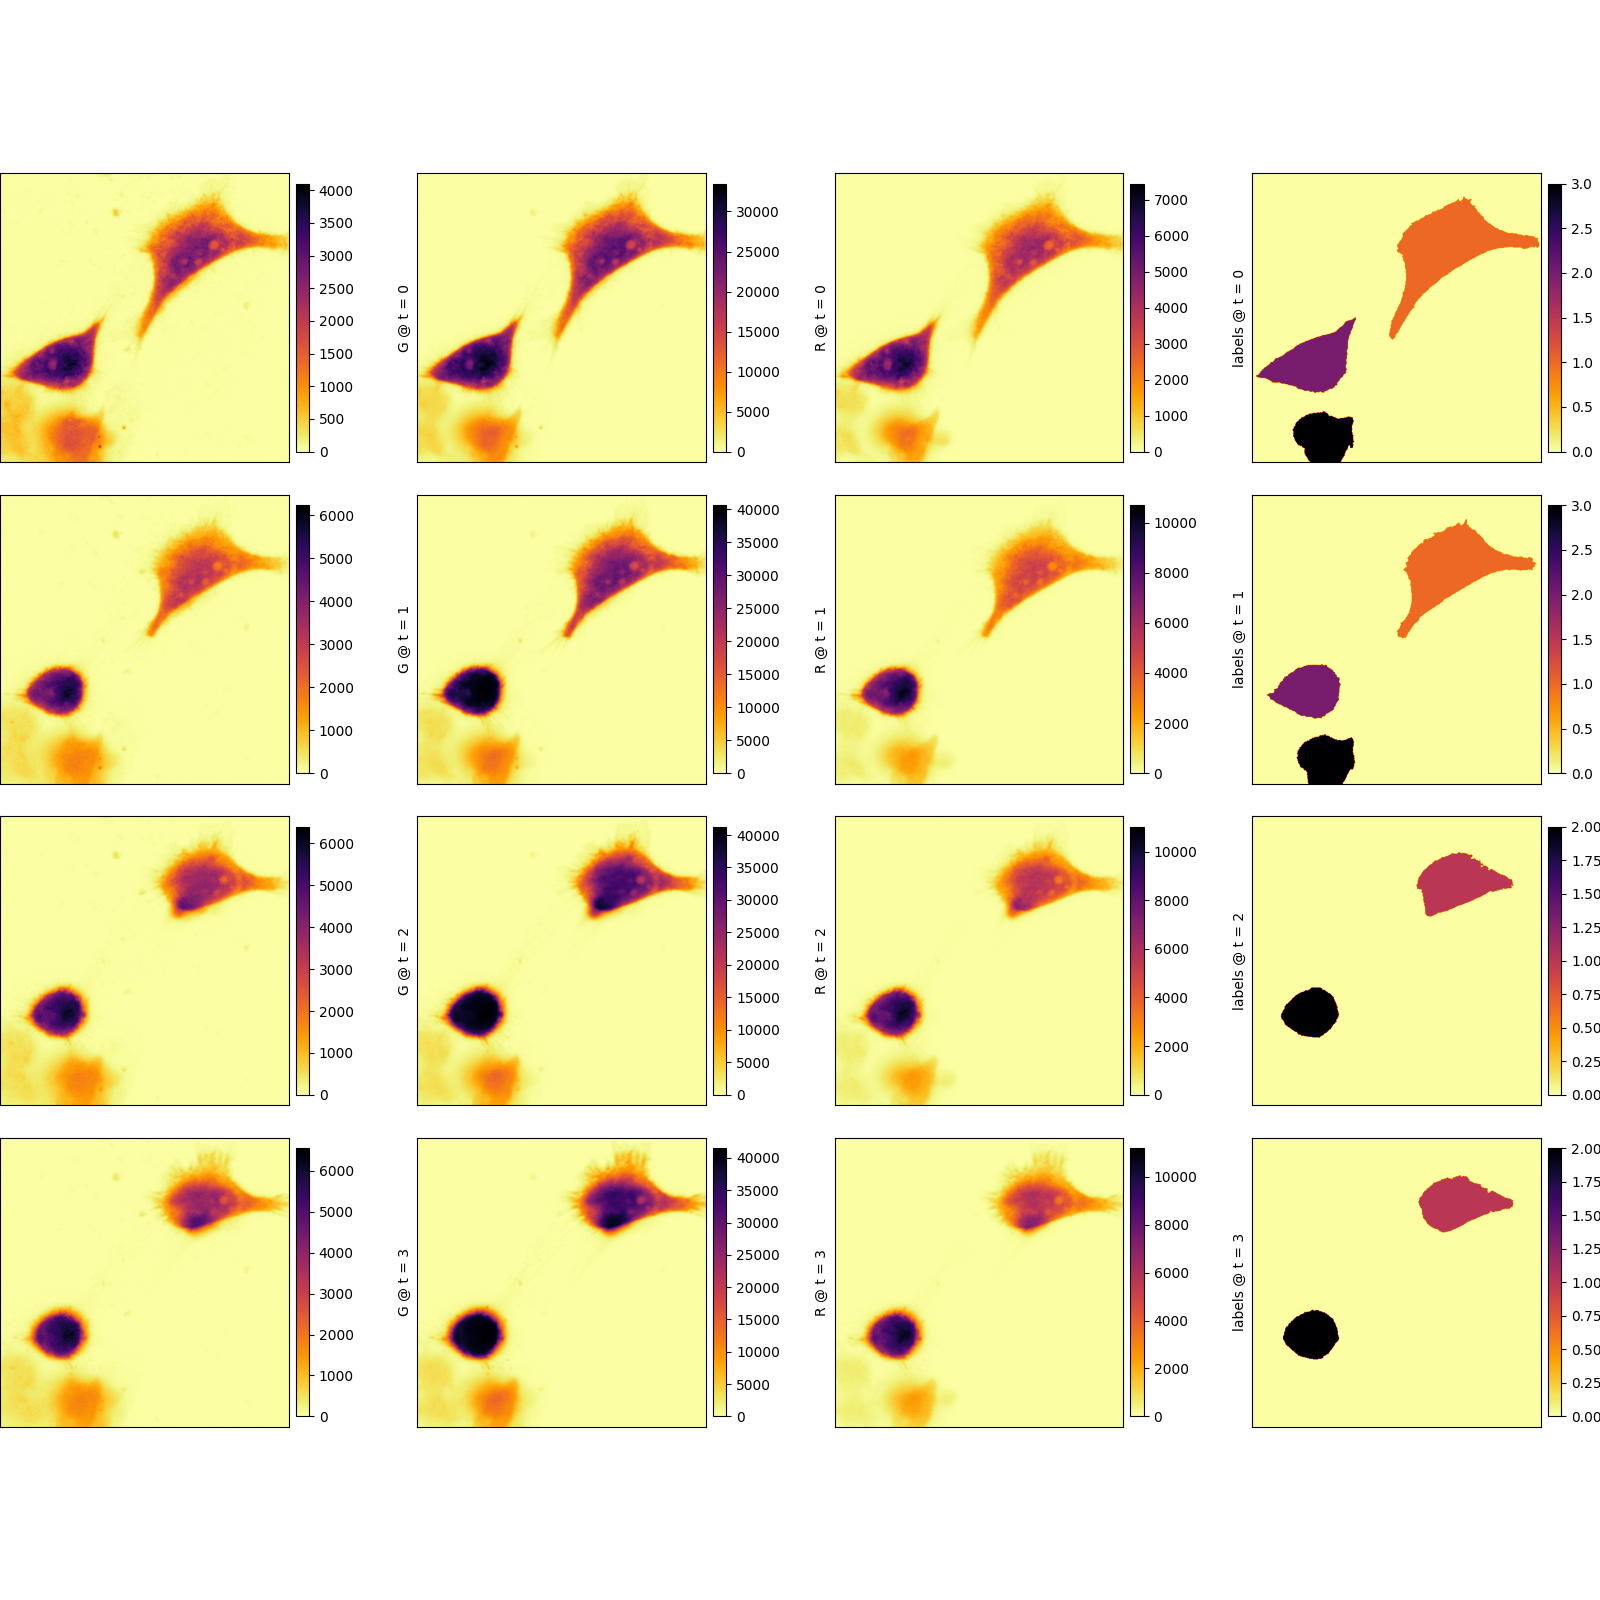
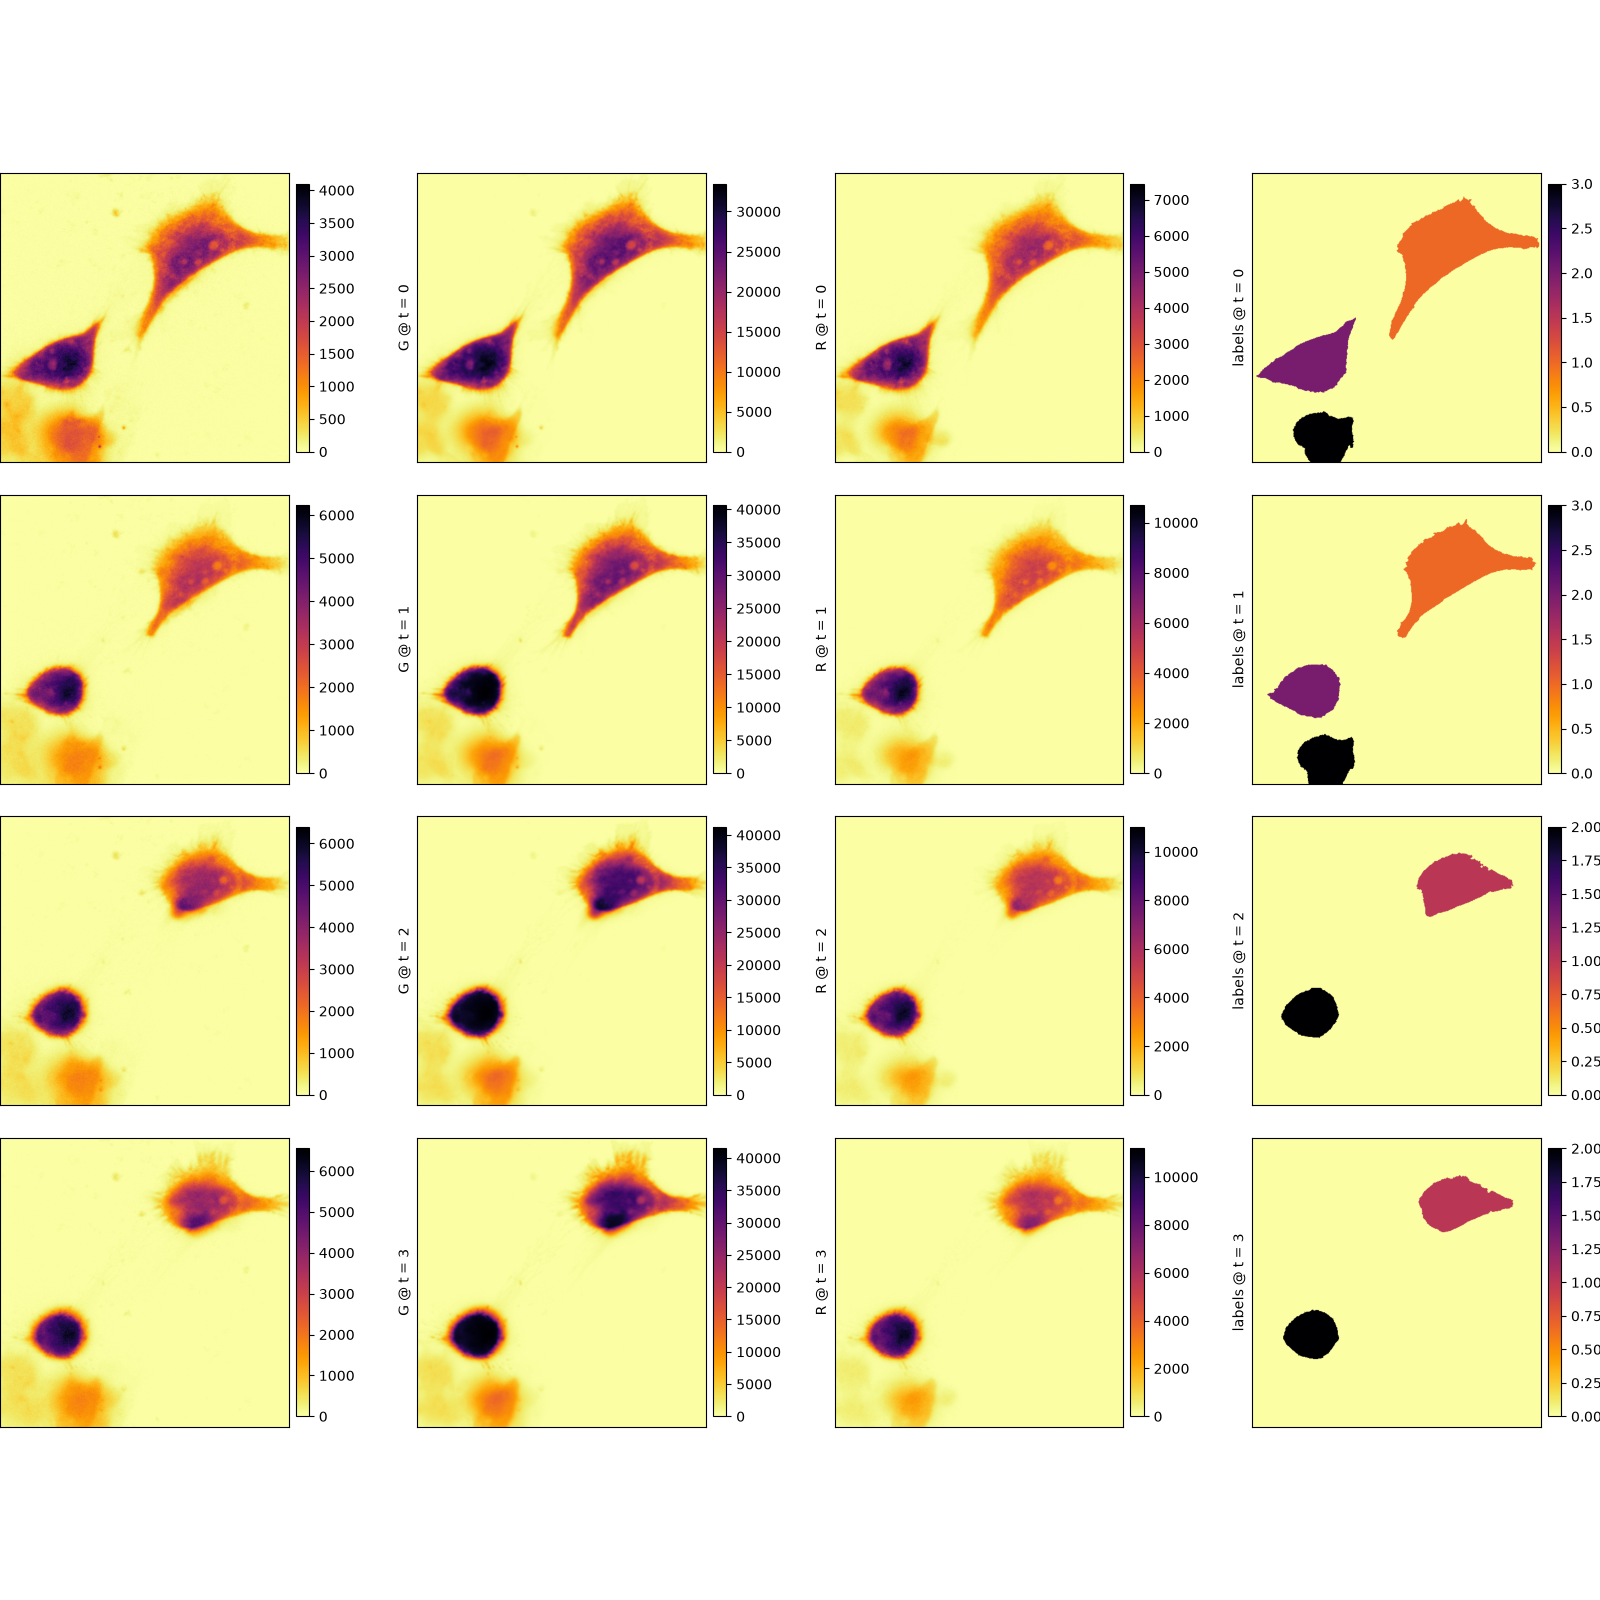
build(deps): bump matplotlib from 3.10.9 to 3.11.0 (#1538)
* build(deps): bump matplotlib from 3.10.9 to 3.11.0

* fix: type

* fix: changing images

---------

diff --git a/src/nima/__main__.py b/src/nima/__main__.py
@@ -323,7 +323,7 @@ def output_results(  # noqa: PLR0913
         im,
         labels=labels,
         channels=sorted(channels),
-        cmap=cm.inferno_r,  # type: ignore[attr-defined]
+        cmap=cm.inferno_r,
     )
     fig.savefig(bname.with_name(bname.name + "_dim.png"))
     # Create measurement CSV files
